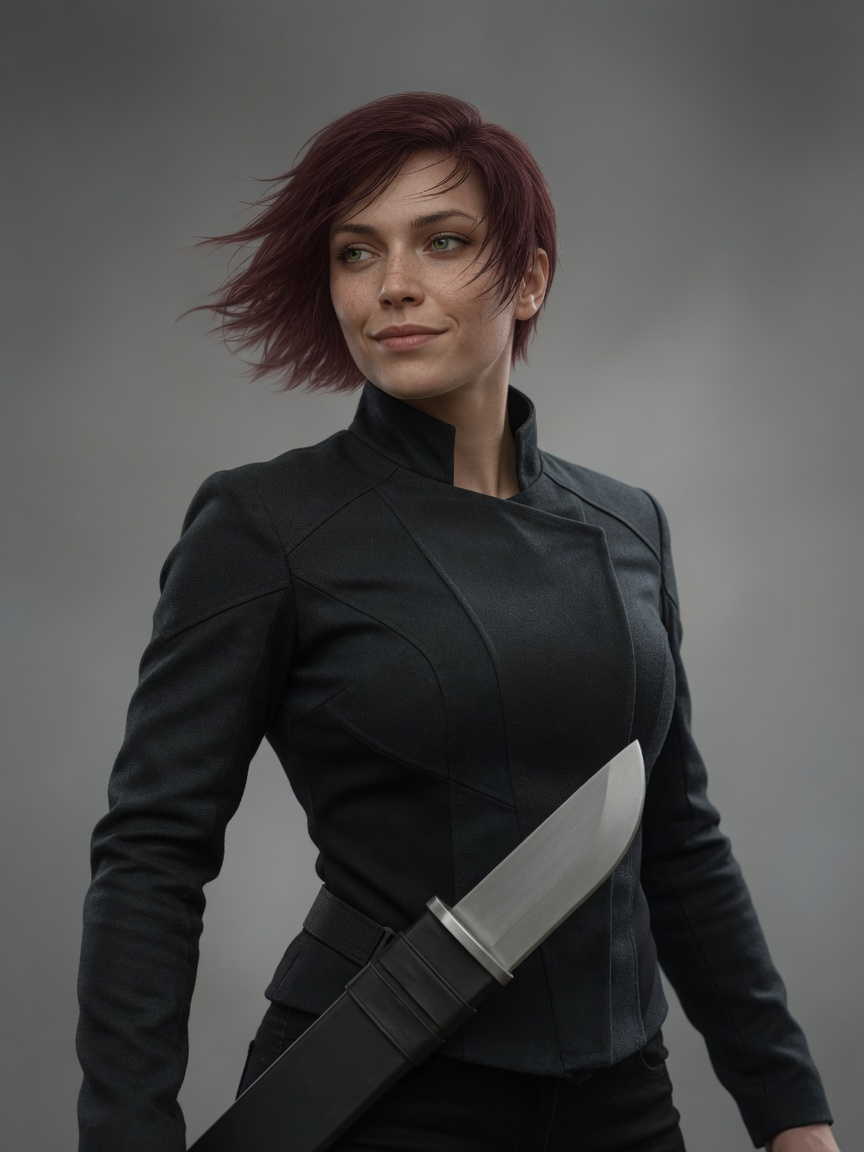
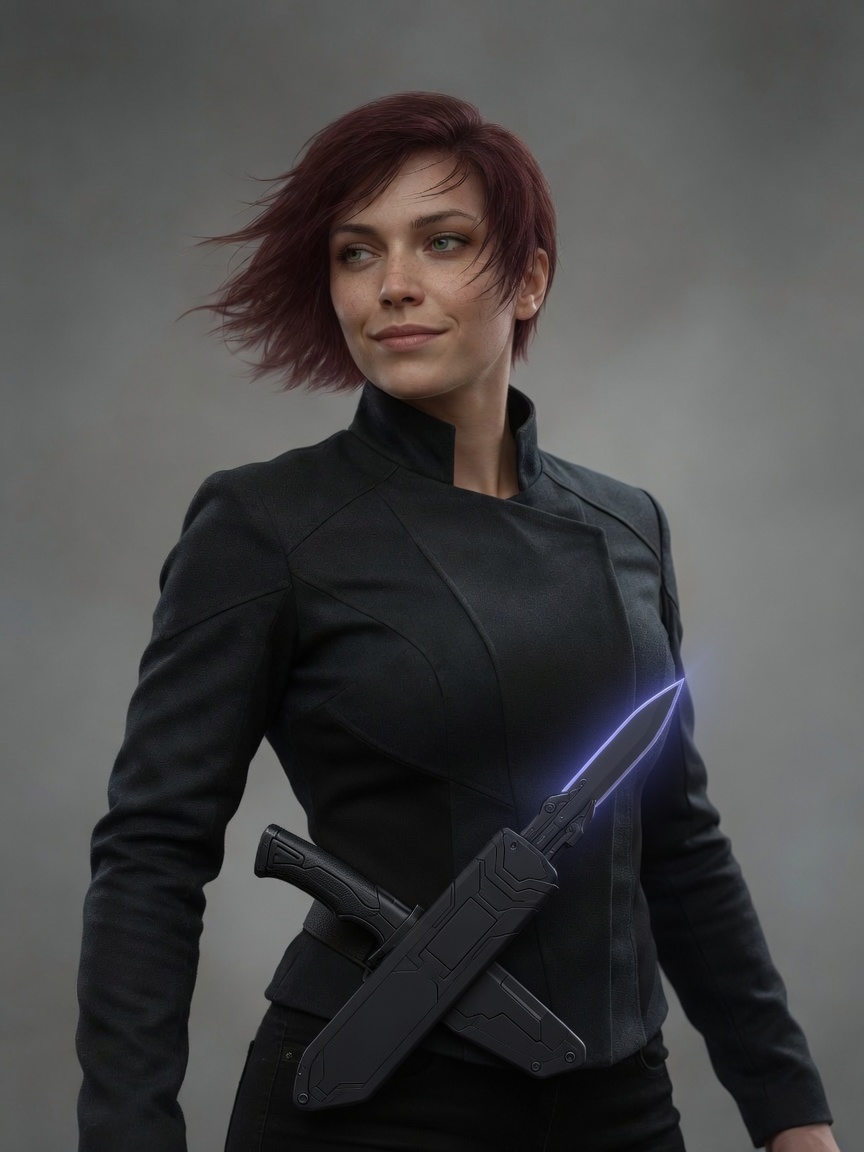
Move Liliana looks above Connections; fix cherenkov blade scale.
Gallery sits just before Connections. Field and civilian plates now show a short powered Cherenkov knife with a charged blue-violet edge, not a wrapped machete; article prose matches the short dematerializing blade.

diff --git a/exodus-the-archimedes-engine/pages/characters/liliana.html b/exodus-the-archimedes-engine/pages/characters/liliana.html
@@ -103,62 +103,6 @@
         </p>
 
         <section>
-          <h2>Looks and covers</h2>
-          <p>
-            The novel fixes kit more firmly than a baseline face. Hair, skin and eye colour are not
-            stated for her natural look; the plates below keep one consistent face for the combat and
-            civilian covers, then switch only what the text switches for the late disguise. The
-            infobox portrait is the field kit; these are the other documented presentations.
-          </p>
-          <ul class="look-gallery">
-            <li>
-              <figure>
-                <div class="look-plate">
-                  <img src="../../assets/images/characters/liliana.jpg" alt="Liliana in earthdragon bioware muscle suit" width="320" height="427" loading="lazy" decoding="async">
-                </div>
-                <figcaption>
-                  <strong>Field kit</strong>
-                  Lightweight earthdragon bioware muscle outfit — “a beefed-up wrestler whose skin had been stripped away.” Cherenkov blade at the hip. (Infobox portrait.)
-                </figcaption>
-              </figure>
-            </li>
-            <li>
-              <figure>
-                <div class="look-plate">
-                  <img src="../../assets/images/characters/liliana-civilian.jpg" alt="Liliana in dark civilian dress" width="320" height="427" loading="lazy" decoding="async">
-                </div>
-                <figcaption>
-                  <strong>Civilian / coquette</strong>
-                  Subdued dark far-future dress off duty; can play the coquette when a job needs it. Same baseline face as the field kit.
-                </figcaption>
-              </figure>
-            </li>
-            <li>
-              <figure>
-                <div class="look-plate">
-                  <img src="../../assets/images/characters/liliana-commercial.jpg" alt="Liliana as commercial emissary" width="320" height="427" loading="lazy" decoding="async">
-                </div>
-                <figcaption>
-                  <strong>Commercial emissary</strong>
-                  Anoosha trade cover beside Guillrameo’s Iuntin-Detlef — smart high-collar commercial dress, not court finery.
-                </figcaption>
-              </figure>
-            </li>
-            <li>
-              <figure>
-                <div class="look-plate">
-                  <img src="../../assets/images/characters/liliana-disguise.jpg" alt="Liliana in pale broader-nose late disguise" width="320" height="427" loading="lazy" decoding="async">
-                </div>
-                <figcaption>
-                  <strong>Late disguise</strong>
-                  “Much broader nose” and skin “almost albino it was so pale” — a face mask, not her natural colouring. Used on the <em>Cybele’s Eagle</em> under the alias Antoinette-2burg.
-                </figcaption>
-              </figure>
-            </li>
-          </ul>
-        </section>
-
-        <section>
           <h2>Quinitai mole and the opening dump</h2>
           <p>
             On Anoosha, Finn joins a combat team hired to strike at Quinitai politicians — one of the
@@ -192,8 +136,10 @@
             <a href="../locations/arkship-diligent.html"><em>Diligent</em></a> and disable its
             <a href="../technology/zpz-generator.html">ZPZ generator</a> under a brief from archon
             <a href="sahdiah.html">Sahdiah</a>. He hires <a href="andino.html">Andino</a> and meets Liliana.
-            She kills him there with a <strong>cherenkov blade</strong> — a powered knife that, when charged,
-            dematerializes into an extreme cutting edge. The murder removes Sahdiah’s Traveler middleman at
+            She kills him there with a <strong>cherenkov blade</strong> — her signature short powered knife.
+            When charged, the edge dematerializes into an extreme cutting plane rather than a conventional
+            steel bite. That charged kill is the detail Medusa later passes to Terence: not a common
+            blade, but a Cherenkov one. The murder removes Sahdiah’s Traveler middleman at
             the moment the interdiction brief is closest to mattering. Sahdiah wrongly suspects
             <a href="olomo.html">Olomo</a> and the <a href="../factions/heresy-dominion.html">Heresy
             Dominion</a>, and tasks Marcellu’s right-hand <a href="medusa.html">Medusa</a> to find a female
@@ -283,6 +229,63 @@
             <li><a href="../locations/cybeles-eagle.html"><em>Cybele’s Eagle</em></a></li>
             <li><a href="../locations/arcadias-moon.html"><em>Arcadia’s Moon</em></a></li>
             <li><a href="../factions/human-liberation.html">Human liberation</a></li>
+          </ul>
+        </section>
+
+        <section>
+          <h2>Looks and covers</h2>
+          <p>
+            The novel fixes kit more firmly than a baseline face. Hair, skin and eye colour are not
+            stated for her natural look; the plates below keep one consistent face for the combat and
+            civilian covers, then switch only what the text switches for the late disguise. The
+            infobox portrait is the field kit. Her <strong>cherenkov blade</strong> is a short powered
+            knife — high-tech, not a survival machete — shown charged with a Cherenkov blue-violet edge.
+          </p>
+          <ul class="look-gallery">
+            <li>
+              <figure>
+                <div class="look-plate">
+                  <img src="../../assets/images/characters/liliana.jpg" alt="Liliana in earthdragon bioware muscle suit with charged cherenkov blade" width="320" height="427" loading="lazy" decoding="async">
+                </div>
+                <figcaption>
+                  <strong>Field kit</strong>
+                  Lightweight earthdragon bioware muscle outfit — “a beefed-up wrestler whose skin had been stripped away.” Compact charged cherenkov blade at the hip. (Infobox portrait.)
+                </figcaption>
+              </figure>
+            </li>
+            <li>
+              <figure>
+                <div class="look-plate">
+                  <img src="../../assets/images/characters/liliana-civilian.jpg" alt="Liliana in dark civilian dress with cherenkov blade" width="320" height="427" loading="lazy" decoding="async">
+                </div>
+                <figcaption>
+                  <strong>Civilian / coquette</strong>
+                  Subdued dark far-future dress off duty; can play the coquette when a job needs it. Same baseline face; short powered blade in a tech sheath.
+                </figcaption>
+              </figure>
+            </li>
+            <li>
+              <figure>
+                <div class="look-plate">
+                  <img src="../../assets/images/characters/liliana-commercial.jpg" alt="Liliana as commercial emissary" width="320" height="427" loading="lazy" decoding="async">
+                </div>
+                <figcaption>
+                  <strong>Commercial emissary</strong>
+                  Anoosha trade cover beside Guillrameo’s Iuntin-Detlef — smart high-collar commercial dress, not court finery.
+                </figcaption>
+              </figure>
+            </li>
+            <li>
+              <figure>
+                <div class="look-plate">
+                  <img src="../../assets/images/characters/liliana-disguise.jpg" alt="Liliana in pale broader-nose late disguise" width="320" height="427" loading="lazy" decoding="async">
+                </div>
+                <figcaption>
+                  <strong>Late disguise</strong>
+                  “Much broader nose” and skin “almost albino it was so pale” — a face mask, not her natural colouring. Used on the <em>Cybele’s Eagle</em> under the alias Antoinette-2burg.
+                </figcaption>
+              </figure>
+            </li>
           </ul>
         </section>
 

diff --git a/exodus-the-archimedes-engine/docs/visual-briefs/liliana.md b/exodus-the-archimedes-engine/docs/visual-briefs/liliana.md
@@ -31,7 +31,7 @@ Aircraft hatch / Anoosha cloud haze memory
 ## Generation prompt
 
 ```
-Highly detailed cinematic sci-fi encyclopedia illustration, rich textures, sharp focus, painterly digital art with photographic detail, soft volumetric lighting, no text, no watermark, no UI chrome. Upper-body portrait of Liliana, Lidon-linked human mercenary. HER FIELD KIT IS A BIOWARE MUSCLE SUIT, NOT ARMOUR: a close-fitting lightweight suit of sculpted fibre bundles that reads as exposed anatomy — as though a powerfully built wrestler had been skinned — with NO plates, NO cuirass, NO rigid armour panels and no emblems anywhere on it. Striking woman with a cool professional expression, an exotic blade sheath at the hip holding a plain unmarked blade. Deniable operator, unsettling to look at. Windy hatch light and cloud haze. Plain even light and an uncluttered background. NO TEXT ANYWHERE IN THE FRAME, on the subject or behind them: no signs, no signage, no neon lettering, no shopfronts, no billboards, no screens, no display panels, no readouts, no holographic interfaces, no console text, no dog tags, no identity discs, no name tapes, no stencilled markings, no unit badges, no insignia, no heraldic emblems, no crests, no repeated motifs, no banners, no murals, no floating symbols or runes, no captions, no labels, no numbers, no logos, no brand marks, no watermarks.
+Highly detailed cinematic sci-fi encyclopedia illustration, rich textures, sharp focus, painterly digital art with photographic detail, soft volumetric lighting, no text, no watermark, no UI chrome. Upper-body portrait of Liliana, Lidon-linked human mercenary. HER FIELD KIT IS A BIOWARE MUSCLE SUIT, NOT ARMOUR: a close-fitting lightweight suit of sculpted fibre bundles that reads as exposed anatomy — as though a powerfully built wrestler had been skinned — with NO plates, NO cuirass, NO rigid armour panels and no emblems anywhere on it. HER WEAPON IS A CHERENKOV BLADE: a compact high-tech powered combat knife only about 20cm long, sleek far-future design, thin edge with a faint Cherenkov blue-violet glow when charged, slim tech sheath — NOT a machete, NOT a large sword, NOT a wrapped leather survival knife. Striking woman with a cool professional expression. Deniable operator, unsettling to look at. Windy hatch light and cloud haze. Plain even light and an uncluttered background. NO TEXT ANYWHERE IN THE FRAME, on the subject or behind them: no signs, no signage, no neon lettering, no shopfronts, no billboards, no screens, no display panels, no readouts, no holographic interfaces, no console text, no dog tags, no identity discs, no name tapes, no stencilled markings, no unit badges, no insignia, no heraldic emblems, no crests, no repeated motifs, no banners, no murals, no floating symbols or runes, no captions, no labels, no numbers, no logos, no brand marks, no watermarks.
 ```
 
 ## Sources

diff --git a/exodus-the-archimedes-engine/docs/visual-briefs/IMAGE-REVIEW.md b/exodus-the-archimedes-engine/docs/visual-briefs/IMAGE-REVIEW.md
@@ -1370,10 +1370,14 @@ muscle-suit plate via image-edit; reviewed by eye against the brief and novel.
 
 | File | Role | Verdict |
 |---|---|---|
-| `liliana.jpg` (infobox) | Field kit — earthdragon bioware muscle suit | **PASS** (prior) |
-| `liliana-civilian.jpg` | Subdued dark civilian / coquette | **PASS** — same face; high-collar far-future dark dress; blade; no text |
+| `liliana.jpg` (infobox) | Field kit — earthdragon bioware muscle suit | **PASS** — compact charged cherenkov blade (blue-violet edge), not machete; regen 26 July 2026 |
+| `liliana-civilian.jpg` | Subdued dark civilian / coquette | **PASS** — same face; short powered knife in tech sheath with Cherenkov edge; regen 26 July 2026 |
 | `liliana-commercial.jpg` | Anoosha commercial emissary | **PASS** — same face; smart high-collar trade dress; no logos |
 | `liliana-disguise.jpg` | Late pale broader-nose mask / Antoinette-2burg | **PASS** — almost-albino skin, clearly broader nose, high standing collar without zip; no text |
+
+**Knife note:** the novel names the *cherenkov blade* and ties it to Marcellu’s murder; a short
+powered knife whose charged edge dematerializes is franchise tech vocabulary used on the article.
+Earlier plates showed a large wrapped survival machete — wrong scale and period. Replaced.
 
 Lightbox extended so `.look-plate` opens like `.infobox-image`.
 
